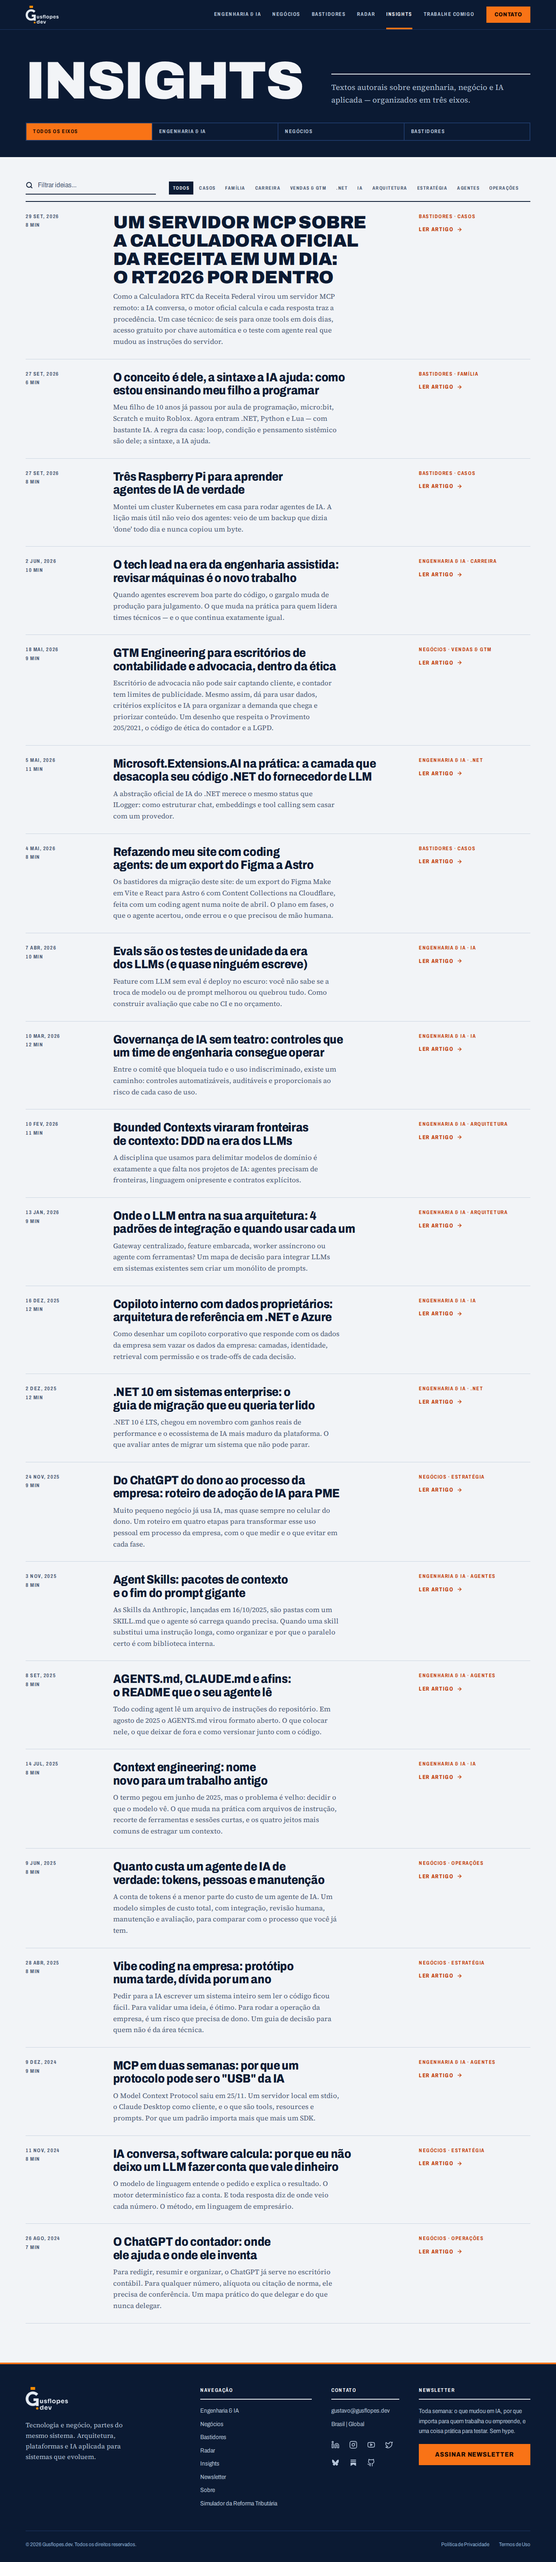
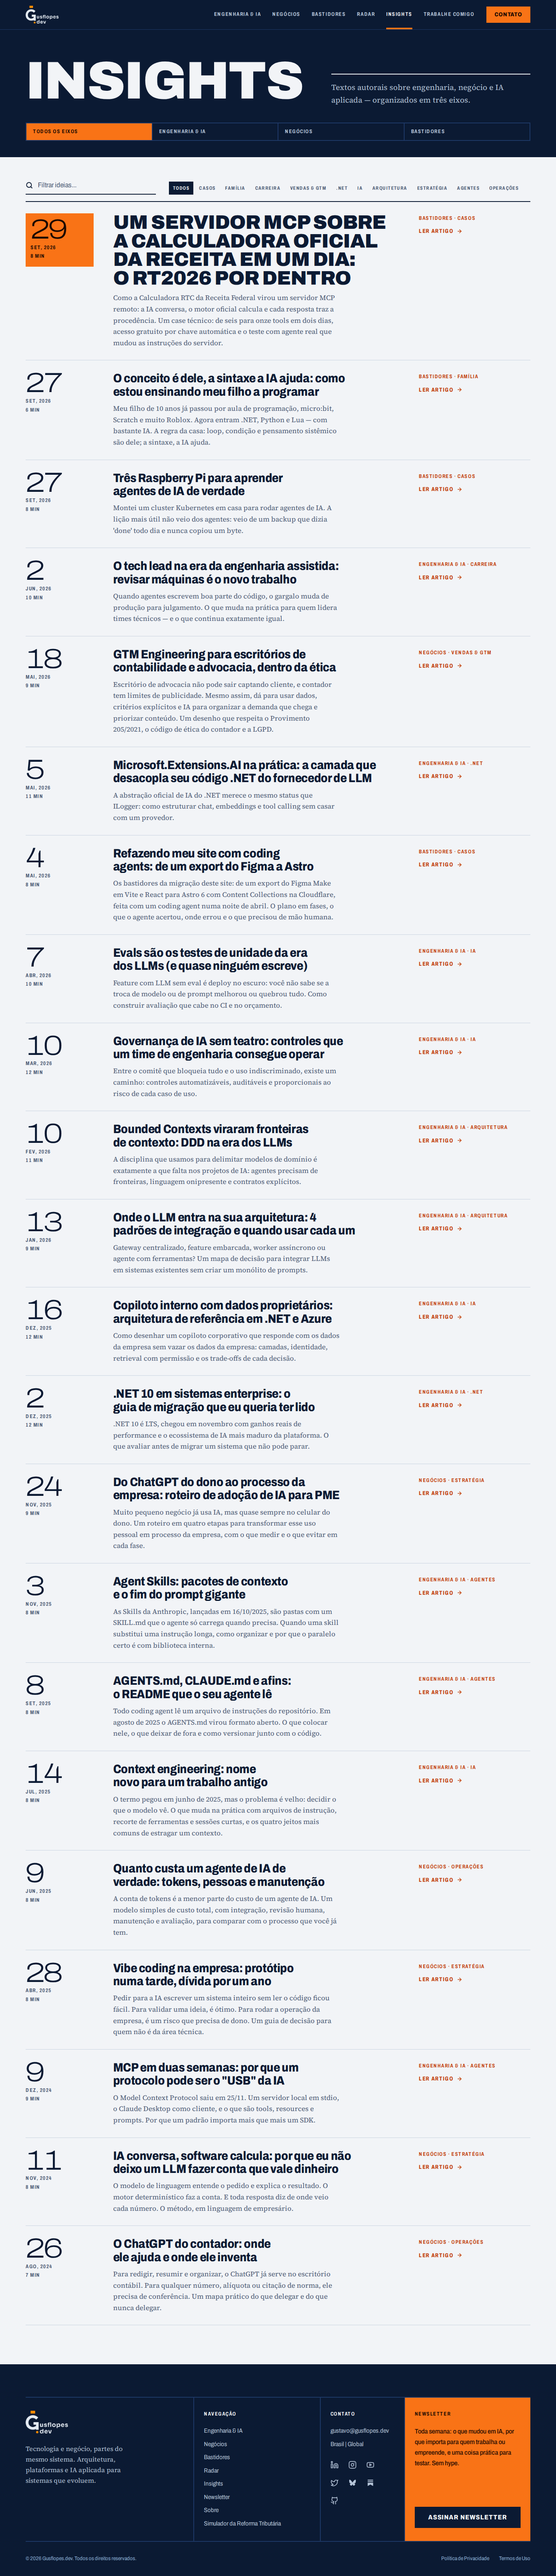
docs(design): DESIGN.md, sidecar, surface briefs e screenshots da rodada 2
Claude-Session: https://claude.ai/code/session_01G5QirRtrqW1g2QHV9fAH4M

diff --git a/DESIGN.md b/DESIGN.md
@@ -23,9 +23,27 @@ typography:
     fontWeight: 900
     lineHeight: 0.92
     letterSpacing: "-0.02em"
+  abertura-estreita:
+    fontFamily: "Archivo Variable, Archivo, sans-serif"
+    fontSize: "min(calc(var(--fit) * 1cqi), var(--teto))"
+    fontWeight: 850
+    lineHeight: 0.92
+    letterSpacing: "-0.02em"
+  tese:
+    fontFamily: "Archivo Variable, Archivo, sans-serif"
+    fontSize: "min(calc(var(--fit) * 1cqi), 20rem)"
+    fontWeight: 900
+    lineHeight: 0.86
+    letterSpacing: "-0.02em"
+  numeral:
+    fontFamily: "Archivo Variable, Archivo, sans-serif"
+    fontSize: "clamp(2.75rem, 5vw, 4.25rem)"
+    fontWeight: 250
+    lineHeight: 0.82
+    letterSpacing: "-0.04em"
   display:
     fontFamily: "Archivo Variable, Archivo, sans-serif"
-    fontSize: "clamp(2rem, 5vw, 4.5rem)"
+    fontSize: "clamp(2rem, 5vw, 3rem)"
     fontWeight: 900
     lineHeight: 0.9
     letterSpacing: "-0.02em"
@@ -79,6 +97,22 @@ components:
   button-primary-hover-on-papel:
     backgroundColor: "{colors.azul}"
     textColor: "{colors.papel}"
+  celula-acao:
+    backgroundColor: "{colors.laranja}"
+    textColor: "{colors.laranja-tinta}"
+    typography: "{typography.abertura-estreita}"
+    rounded: "{rounded.none}"
+    padding: "24px"
+  celula-acao-hover:
+    backgroundColor: "{colors.papel}"
+    textColor: "{colors.azul}"
+  button-on-laranja:
+    backgroundColor: "{colors.azul}"
+    textColor: "{colors.papel}"
+    typography: "{typography.rotulo}"
+    rounded: "{rounded.none}"
+    padding: "0 1.6rem"
+    height: "52px"
   filtro-celula:
     backgroundColor: "{colors.azul}"
     textColor: "{colors.ceu-claro}"
@@ -107,12 +141,16 @@ components:
 
 O site é uma peça de poesia concreta brasileira (Noigandres, Augusto de Campos) composta com a disciplina da escola de Ulm que Alexandre Wollner trouxe ao Brasil: a tese da marca — "Tecnologia e negócio, partes do mesmo sistema" — é montada como bloco de tipo, e todo o resto é grade rígida, filete e campo de cor chapado. Não há ilustração, foto de banco, sombra ou vidro. A única imagem é o quadro da marca (cidade noturna em pinceladas), visto por uma janela laranja girada, uma vez por página no máximo.
 
-Dois campos se alternam: **azul-escuro** é a moldura (cabeçalhos, aberturas, seções de tese, rodapé) e **papel frio** é onde se lê (corpo dos textos, listas, a tabela de temas). O laranja entra em blocos — botão, célula ativa, a janela, o dois-pontos da abertura — nunca como brilho.
+Dois campos dividem a página em regiões inteiras: **azul-escuro** é a moldura (cabeçalhos, aberturas, tese, eixos, ferramenta, rodapé) e **papel frio** é onde se lê (corpo dos textos, listas, ideias, temas, serviços). Um campo carrega várias seções: a home troca de campo só duas vezes. O **laranja** é plano estrutural — ocupa uma célula inteira quando marca a ação principal da região (newsletter, diagnóstico, simulador) ou a ordem real (o texto mais recente de um hub) — e, fora disso, aparece como tipo (o "&" dos temas, o dois-pontos da abertura), nunca como brilho.
+
+A grade rígida é o motor de toda página, não só das aberturas: cada seção é uma composição de células desenhadas pelo próprio fundo nos vãos de 2px, com tipo que ocupa a célula inteira (abertura estreita, bloco justificado) e números que só aparecem quando codificam algo verdadeiro (data, número da edição, ordem).
 
 O sistema resolve o risco declarado da direção ("ótimo para a home, difícil sustentar em 40 textos") com regras, não com composição manual: cada título vira abertura por um algoritmo determinístico (`src/lib/abertura.ts`) cuja forma depende do eixo editorial.
 
 **Key Characteristics:**
-- Aberturas tipográficas geradas do título: caixa-alta Archivo 900, linhas ajustadas à largura, uma linha vazada só no contorno, separador em laranja.
+- Aberturas tipográficas geradas do título: caixa-alta Archivo 900 (larga) ou 850/62 (estreita, títulos de seção), linhas ajustadas à largura, uma linha vazada só no contorno, separador em laranja.
+- Laranja como plano: a ação principal de cada região é uma célula laranja inteira, com botão azul sobre ela.
+- Rótulos nunca acima do título: metadados numa célula ao lado ou numa linha depois.
 - Grade de filetes de 1–2px e células separadas por `gap` sobre fundo azul (a cor do fundo vira a linha).
 - Cantos retos em tudo (`rounded: 0`), zero sombra.
 - Leitura calma: Source Serif 4, 18–19px, 68ch, tinta azul-escuro sobre papel frio.
@@ -148,8 +186,12 @@ Estratégia **comprometida em dois campos**: azul-escuro e papel frio dividem a 
 Uma família de display com dois eixos substitui três famílias da maquete: o mesmo desenho dá o bloco pesado e o rótulo estreito, que é exatamente a coerência de sistema que a escola de Ulm pedia.
 
 ### Hierarchy
-- **Abertura** (900, caixa-alta, line-height 0,92, tracking −0,02em): corpo por linha em `cqi`, calculado no build; teto 7,5–9rem nas páginas, 20rem na tese da home.
-- **Display** (900, caixa-alta, 2–4,5rem): títulos de seção ("Como posso ajudar", "Ideias recentes", "Edições").
+- **Tese** (900, line-height 0,86, sem respiro entre linhas): o bloco da home, cinco linhas, "e negócio," menor em laranja, MESMO vazado.
+- **Abertura larga** (900, caixa-alta, line-height 0,92, tracking −0,02em): títulos de texto, hubs, 404, páginas legais e as seções de tese da home (Ferramenta, Temas, Serviços). Corpo por linha em `cqi`, calculado no build; teto 7,5–11rem.
+- **Abertura estreita** (850, largura 62%, word-spacing 0,12em): títulos de seção que precisam de outra textura — "O que eu escrevo, e para quem", nomes dos eixos, "Ideias recentes", "Vídeo em Destaque", "Edições". Mesmas regras, métricas próprias.
+- **Bloco de célula** (850/62): nomes curtos de temas e serviços em duas linhas justificadas na largura da célula, "&" em laranja profundo; sem linha vazada.
+- **Numeral** (250, largura 125%, tabular): o dia nas listas e o número da edição. Leve e largo contra o bloco pesado — o contraste de peso faz a hierarquia.
+- **Display** (900, caixa-alta, 2–3rem): títulos auxiliares (nome do simulador em Bastidores, caminhos do 404).
 - **Título de lista** (800, largura 87%, 1,5–1,875rem, caixa normal): itens de hubs e listas; o mais recente do hub sobe para 900 caixa-alta.
 - **Linha-fina** (500, largura 87%): cauda da abertura e frase de apoio do hero, em céu sobre azul.
 - **Rótulo** (650, largura 75%, 0,8125rem, caixa-alta, tracking 0,12em): metadados, navegação, ações. Só textos curtos.
@@ -158,7 +200,9 @@ Uma família de display com dois eixos substitui três famílias da maquete: o m
 ### Named Rules
 **The Abertura Rule.** Todo título de texto (artigo, edição, hub, seção de tese) é desenhado por `src/lib/abertura.ts`: corte no primeiro ": " (ou travessão, ou parêntese) em cabeça e cauda; palavras curtas grudam na seguinte; 1–5 linhas pelo comprimento; partição mais equilibrada pelas larguras reais dos glifos (`src/lib/abertura-metricas.json`, gerado por `scripts/gerar-metricas-abertura.mjs`). Forma por eixo: **Engenharia & IA / Newsletter = bloco** (linhas justificadas, última vazada); **Negócios = escada** (larguras decrescentes, à direita, primeira vazada); **Bastidores = degraus** (corpo único, recuo progressivo, linha do meio vazada).
 
-**The One Outline Rule.** Uma linha vazada por bloco, nunca mais. Se a cabeça tem uma linha só, nenhuma.
+**The One Outline Rule.** Uma linha vazada por bloco, nunca mais. Se a cabeça tem uma linha só, nenhuma. Blocos de célula e títulos de lista nunca vazam.
+
+**The Two Instances Rule.** A instância larga é a voz das teses e dos textos; a estreita é a voz das seções. Pesos e larguras variam dentro do Archivo (900/100, 850/62, 250/125) para criar hierarquia sem empilhar caixa-alta 900 em todo título.
 
 **The Quiet Column Rule.** Nenhum jogo tipográfico dentro da coluna de leitura: o corpo é serifa calma; o sistema fica na moldura.
 
@@ -166,7 +210,16 @@ Uma família de display com dois eixos substitui três famílias da maquete: o m
 
 Grade de 12 colunas numa moldura de 1240px com gutter `clamp(16px, 4vw, 48px)`. Seções com 80px (celular) / 112px (desktop) de respiro vertical. A coluna de leitura dos textos começa na coluna 4 (margem esquerda vazia, assimétrica); a abertura ocupa 8 colunas e a linha-fina do artigo as 4 restantes, alinhadas pela base.
 
-Grades de células usam `gap: 2px` sobre o campo azul para que o próprio fundo vire o filete (faixa dos eixos, filtros de eixo). Listas são tabelas: data/duração (2 colunas), título + resumo (7), eixo/categoria + ação (3).
+Grades de células usam `gap: 2px` sobre um fundo (azul no papel, azul-3 no azul) para que o próprio fundo vire o filete. Listas são tabelas: data (2 colunas: dia em numeral, "Mês, ano" e duração em rótulo), título + resumo (7), eixo/categoria + ação (3).
+
+### Home, seção por seção (trabalho → composição)
+- **Tese** (entender a proposta): bloco de cinco linhas a .86; a janela encaixa no vão de MESMO/SISTEMA no celular e sangra na borda direita no desktop. Faixa de grade: metadados à esquerda, frase e apoio no meio, plano laranja da newsletter à direita, encostado na seção seguinte.
+- **Eixos** (escolher por onde entrar): plano laranja alto com a pergunta em abertura estreita, encostado em três linhas de papel; o nome de cada eixo ocupa a célula na forma do próprio eixo; "Mais recente" numa célula ao lado do título do texto.
+- **Ferramenta** (experimentar agora): grade de filetes azul-3; abertura em degraus + célula de metadados; a ação é a própria célula laranja.
+- **Ideias e vídeo** (ver o que saiu): "Ideias recentes" numa linha estreita da largura toda; linhas de tabela com data; o vídeo fecha numa linha de duas células (título à esquerda, célula azul inteira como link).
+- **Temas** (entender quem escreve): abertura em bloco + trajetória; os cinco temas numa partição 3 + 2 com nomes justificados na célula.
+- **Serviços** (entender o que contratar): abertura em escada à direita; as três ofertas descem em degraus a partir dela.
+- **Rodapé**: células com filetes azul-3; a coluna da newsletter é o plano laranja.
 
 Header fixo de 72px; páginas de texto trocam o header por uma barra de 56px (voltar / compartilhar).
 
@@ -184,7 +237,8 @@ Cantos retos em tudo: botões, células, inputs, blocos de código, foto do auto
 ## Components
 
 ### Buttons
-- **Primário (`.botao`)**: bloco laranja, texto `#1C0A02`, Archivo 800 largura 87% em caixa-alta, 52px de altura, canto reto. Hover: vira papel com tinta azul (sobre azul) ou azul com tinta papel (sobre papel).
+- **Primário (`.botao`)**: bloco laranja, texto `#1C0A02`, Archivo 800 largura 87% em caixa-alta, 52px de altura, canto reto. Hover: vira papel com tinta azul (sobre azul) ou azul com tinta papel (sobre papel). Dentro de um plano laranja (`.campo-laranja`) inverte: bloco azul, texto papel.
+- **Célula de ação (`.celula-acao`)**: a célula laranja inteira é o link, rótulo estreito 850/62 em caixa-alta e seta SVG no canto; hover vira papel.
 - **Ação (`.acao`)**: rótulo laranja com seta; sublinhado de 2px aparece no hover. Laranja `#F97316` sobre azul, `#C2410C` sobre papel.
 
 ### Chips (filtros)
@@ -192,7 +246,7 @@ Cantos retos em tudo: botões, células, inputs, blocos de código, foto do auto
 - **Categoria**: rótulo pequeno sem caixa; ativa = bloco azul com texto papel.
 
 ### Cards / Containers
-Não há cards. Conteúdo agrupado vira linha de tabela (borda inferior em filete), célula de grade ou campo azul inteiro (vídeo em destaque, caixa da newsletter, destaque do simulador em Bastidores).
+Não há cards. Conteúdo agrupado vira linha de tabela (borda inferior em filete), célula de grade (gap de 2px sobre o fundo) ou plano chapado: laranja para a ação principal (newsletter em hero, rodapé, arquivo e fim do artigo; diagnóstico; simulador em Bastidores), azul para o vídeo em destaque.
 
 ### Inputs / Fields
 Busca: sem caixa; só um filete inferior de 2px azul, que fica laranja profundo no foco; ícone de lupa em traço 2,5.
@@ -204,7 +258,7 @@ Header azul chapado, itens em rótulo céu-claro; o ativo fica papel com uma bar
 `<Abertura titulo eixo as teto />` (`src/components/Abertura.tsx`). Renderiza o heading com o título completo na ordem original; cada linha é um `span` com `--fit` (cqi) e `--recuo`; o heading é contêiner de tamanho (`container-type: inline-size`). O mesmo dado alimenta o gerador de capas do Substack (`docs/substack-kit/gerar-capa.mjs`).
 
 ### Janela (signature component)
-Bloco laranja girado 12°, inset de 9%, com o quadro (AVIF/WebP responsivo) contra-girado e ampliado dentro. Com `animation-timeline: view()` o quadro desliza ±7% dentro da janela durante o scroll; desligado em `prefers-reduced-motion`. Uso: uma vez por página, no máximo (hoje só no hero da home e nas capas do Substack).
+Bloco laranja girado 12°, inset de 9%, com o quadro (AVIF/WebP responsivo) contra-girado e ampliado dentro. Com `animation-timeline: view()` o quadro desliza ±7% dentro da janela durante o scroll; desligado em `prefers-reduced-motion`. Uso: uma vez por página, no máximo (hoje só no hero da home e nas capas do Substack). Posição: no celular encaixa no vão à direita de MESMO/SISTEMA (sem tocar glifo) e sangra na borda; no desktop encosta no bloco da tese e sangra ~18% na borda direita (`.tese-janela`).
 
 ### Corpo de leitura (`.leitura`)
 H2 em Archivo 850 com filete de 2px acima; H3 em 800/87%; links laranja profundo sublinhados; listas com quadrado laranja; citação em itálico entre filetes com quadrado laranja; código em bloco azul-escuro (tema Shiki), código inline em papel 2; tabelas em rótulo + tabular-nums.
@@ -212,8 +266,11 @@ H2 em Archivo 850 com filete de 2px acima; H3 em 800/87%; links laranja profundo
 ## Do's and Don'ts
 
 ### Do:
+- **Do** pôr a ação principal de cada região numa célula laranja inteira, com botão azul.
+- **Do** levar metadados para uma célula ao lado do título ou para a linha depois dele.
+- **Do** usar números só quando codificam algo verdadeiro: data, número da edição, ordem real.
 - **Do** gerar todo título de texto pela abertura; nunca compor quebra à mão por artigo.
-- **Do** alternar campos inteiros azul / papel ao descer a página.
+- **Do** deixar um campo carregar várias seções; trocar de campo só quando a história muda (na home, no máximo três trocas).
 - **Do** usar `#C2410C` para texto laranja sobre papel e `#F97316` sobre azul.
 - **Do** manter o corpo em Source Serif 4, 68ch, sem efeito.
 - **Do** usar filete e `gap` sobre azul para desenhar grades.
@@ -223,4 +280,7 @@ H2 em Archivo 850 com filete de 2px acima; H3 em 800/87%; links laranja profundo
 - **Don't** usar mais de uma janela por página, nem mais de uma linha vazada por bloco.
 - **Don't** usar sombra, blur, vidro, degradê, cantos arredondados ou cards com borda.
 - **Don't** usar caixa-alta em texto com mais de uma linha curta (rótulos só para metadados curtos).
+- **Don't** pôr rótulo curto em caixa-alta acima de um título.
+- **Don't** usar setas ou ícones em caractere unicode; ícones são SVG (lucide ou traço próprio).
+- **Don't** numerar seções (01/02/03) quando a ordem não informa nada.
 - **Don't** voltar a foto de banco no topo dos textos; ela fica só como imagem de prévia social (OG).

diff --git a/.impeccable/surfaces/src-pages-index-astro.md b/.impeccable/surfaces/src-pages-index-astro.md
@@ -19,7 +19,7 @@ OWN-WORLD: azul-escuro `#0B1A33` como campo, papel frio `#F2F4F7` como segundo c
 
 STORY: o visitante lê a tese como poema concreto, entende que é uma pessoa que junta negócio e engenharia, escolhe a porta (Engenharia & IA / Negócios / Bastidores) e assina.
 
-FIRST VIEWPORT: tese em 5 linhas ajustadas à largura (TECNOLOGIA / e negócio, em laranja menor / PARTES DO / MESMO vazado / SISTEMA) ocupando ~3/4 da largura; à direita, sobre MESMO, o quadrado laranja girado 12° com o quadro recortado dentro (única janela da página). Abaixo, faixa de grade: frase-apoio, CTA laranja "Assinar Newsletter". Logo abaixo, faixa sólida de papel com os três eixos em células.
+FIRST VIEWPORT: tese em 5 linhas ajustadas à largura, entrelinha .86 (TECNOLOGIA / e negócio, em laranja menor / PARTES DO / MESMO vazado / SISTEMA) ocupando ~3/4 da largura; a janela laranja girada 12° com o quadro (única da página) encaixa no vão de MESMO/SISTEMA no celular e sangra na borda direita no desktop. Abaixo, faixa de grade: metadados | frase e apoio | plano laranja da newsletter, encostado nos eixos.
 
 FORM: sistema tipográfico concreto (poesia concreta Noigandres + escola de Ulm/Wollner); 1º e único da lista — direção escolhida pelo dono; seed key: n/a (decisão fixada, sem sorteio).
 
@@ -27,3 +27,21 @@ FINISH: unreviewed and undocumented is unfinished; this build ends with the fini
 
 ## Momento memorável
 A janela laranja girada mostrando um pedaço do quadro; o quadro desliza dentro dela com o scroll (scroll-driven, desligado em reduced-motion).
+
+## Rodada 2 — o resto da página (trabalho → composição)
+
+Mandato do dono: "mudou o hero, mas o resto continua ruim". A grade rígida passa a ser o motor da página inteira.
+
+Ordem nova e porquê: tese → eixos → ferramenta → ideias e vídeo → temas → serviços → rodapé. Depois de escolher a porta, o visitante pode experimentar algo agora (ferramenta) e ver o que saiu (ideias); só então vem quem escreve (temas) e o que contratar (serviços), que fecham a página como oferta logo antes da newsletter do rodapé. Isso também deixa os campos em dois blocos: azul (tese, eixos, ferramenta) → papel (ideias, temas, serviços) → azul (rodapé). Duas trocas.
+
+- **Tese** — entender a proposta. Bloco a .86; faixa de grade com metadados ao lado da frase; a newsletter é um plano laranja de célula.
+- **Eixos** — escolher por onde entrar. Plano laranja alto (a pergunta, abertura estreita) encostado em três linhas de papel; o nome de cada eixo ocupa a célula na forma do próprio eixo (bloco, escada, degraus); "Mais recente" em célula ao lado do título do texto.
+- **Ferramenta** — experimentar algo agora. Grade de filetes azul-3; abertura em degraus + célula de metadados "Ferramenta gratuita · Experimento aberto"; a ação é a própria célula laranja; texto e nota de cautela em células vizinhas.
+- **Ideias recentes + vídeo** — ver o que saiu e abrir um texto. Título estreito ocupando a largura toda; linhas de tabela iguais às dos hubs (data em numeral | título | categoria ao lado | ação); vídeo como linha de duas células: título à esquerda, célula azul inteira como link com o quadrado laranja do play.
+- **Temas** — entender quem escreve e em que áreas atua. Abertura em bloco + trajetória; os cinco temas numa partição 3 + 2 desenhada pelo fundo azul nos vãos; cada nome é um bloco justificado na célula, "&" em laranja (a ponte).
+- **Serviços** — entender o que contratar. Abertura em escada (forma do eixo Negócios) à direita; as três ofertas descem em degraus a partir dela. É o único lugar com três colunas, e mesmo assim desencontradas.
+- **Rodapé** — células com filetes azul-3; newsletter como plano laranja.
+
+Regra de laranja: chapado numa célula inteira = a ação principal da região, ou a ordem real (texto mais recente nos hubs). Regra de número: só data, número de edição ou ordem real; nada de 01/02/03 decorativo.
+
+Corte proposto (não aplicado): "Ideias recentes" repete parcialmente o "Mais recente" de cada eixo; dá para fundir as duas listas no futuro.

diff --git a/.impeccable/surfaces/src-pages-insights-article-id-astro.md b/.impeccable/surfaces/src-pages-insights-article-id-astro.md
@@ -22,3 +22,10 @@ FIRST VIEWPORT: barra azul-escuro com voltar/compartilhar; faixa de metadados em
 FORM: sistema tipográfico concreto aplicado a leitura; 1º da lista (direção fixada pelo dono); seed key: n/a.
 
 FINISH: unreviewed and undocumented is unfinished; this build ends with the finish review, the verdict, DESIGN.md, and every shipping raster carrying its provenance
+
+## Rodada 2 — hubs, fim do artigo, newsletter
+
+- **Hubs** (achar o próximo texto): linhas de tabela; o dia como numeral leve e largo, "Mês, ano" e duração em rótulo; o texto mais recente (sem filtro) tem a célula de data em plano laranja e o título em 900 caixa-alta. Bastidores: o simulador vira grade de células com metadados ao lado do título e a ação como célula laranja.
+- **Fim do artigo** (saber quem escreveu e continuar): grade de duas células sobre azul — autor (foto, nome em estreita, "Sobre o Autor" em linha de metadados depois do nome, bio, redes) e o plano laranja da newsletter.
+- **Newsletter** (assinar e achar uma edição): plano laranja de inscrição; "Edições" em abertura estreita; cada edição com "Edição #N · data" numa célula ao lado do título, o número em numeral grande. Página da edição: metadados e linha-fina numa coluna de células ao lado da abertura; "Ler no Substack" com seta SVG.
+- **404 e legais**: abertura gerada do título, metadados ("Erro 404", "Última atualização") em célula ao lado; uma linha vazada só ("DE LUGAR").
